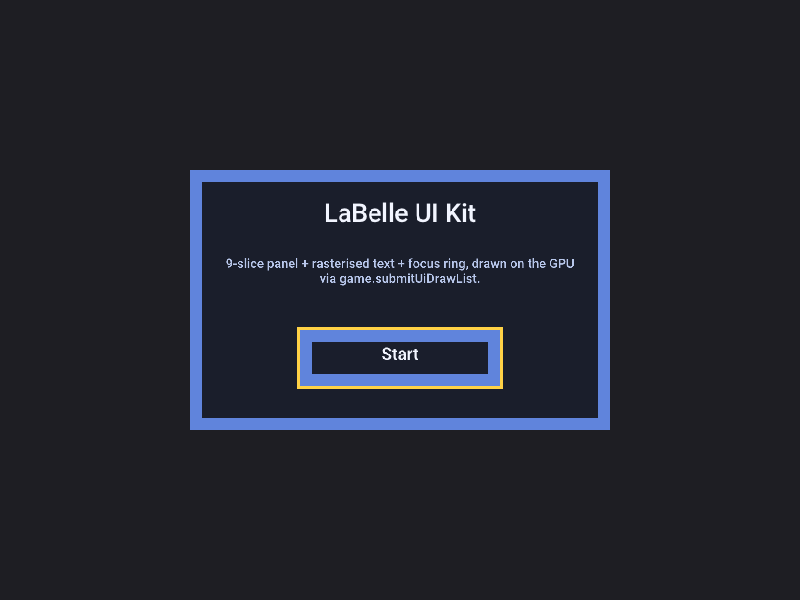
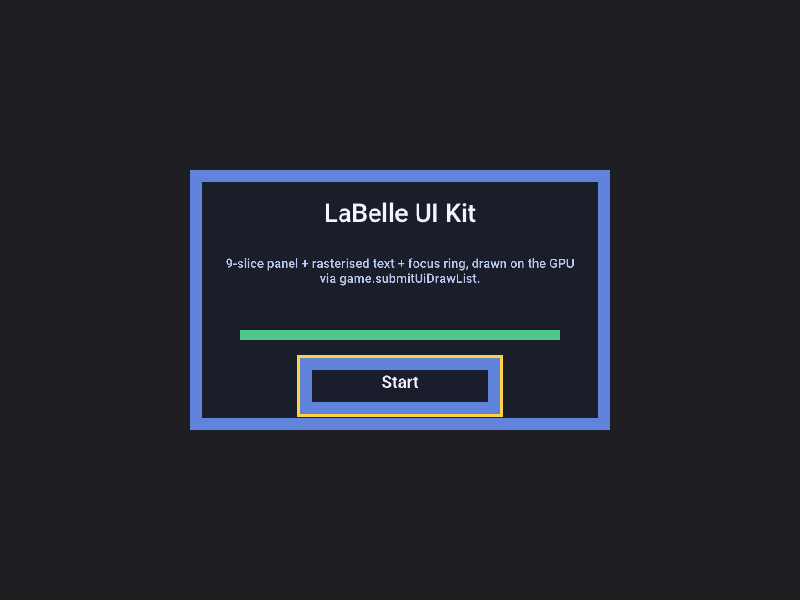
fix: guard cleanup, exercise solid_quad, ship Roboto license (#787)
Follow-on to the round-1 review fixes, addressing the codex P2s on the
same file:

- cleanup() also touched the half-initialised `tree` on an init failure
  (`tree.deinit()` on `undefined`); guard it with the `init_failed` flag
  too. `g` is created before initInner so it always deinits.
- The demo's two panels both resolved the same sprite, so `solid_quad`
  (the unresolved-sprite fallback) was never emitted despite the README
  claiming all four DrawList kinds render. Added a green swatch whose
  sprite intentionally doesn't resolve — now genuinely exercised on the
  GPU (see updated screenshot).
- The bundled Roboto TTF is Apache-2.0; ship assets/Roboto-LICENSE.txt
  (already covered by the `assets` path) + note it in the README.

Claude-Session: https://claude.ai/code/session_011szWvquoss1yNX7KWSKCaM

Changed region(s): [[0.2812, 0.54, 0.7188, 0.72]]

diff --git a/examples/uikit-gpu/README.md b/examples/uikit-gpu/README.md
@@ -10,12 +10,14 @@ submits it to the engine via **`game.submitUiDrawList`** — so the engine's
 The capture above shows all four DrawList command kinds rendered on the GPU
 (offscreen Metal), not a mock recording sink:
 
-- **`textured_quad` (9-slice)** — the panel border/interior, resolved from a
-  procedural theme atlas through `game.resolveUiFrame`.
+- **`textured_quad` (9-slice)** — the panel border/interior + the "Start"
+  button panel, resolved from a procedural theme atlas through
+  `game.resolveUiFrame`.
 - **`text_line`** — the "LaBelle UI Kit" title + the wrapped body line, real
   Roboto glyphs baked by `game.bakeUiFont` (stb_truetype behind the engine's
   `FontBackend` seam) and resolved through the kit's `FontResolver`.
-- **`solid_quad` / `textured_quad`** — the "Start" button panel.
+- **`solid_quad`** — the green swatch (a panel whose sprite intentionally does
+  not resolve, so the kit emits its solid fallback).
 - **`focus_highlight`** — the yellow focus ring around the focused button.
 
 This is the acceptance evidence the headless #771 integration test could not
@@ -66,6 +68,9 @@ depends on code that is not all released/merged yet:
 - **labelle-sokol** — the sokol backend (gfx/input/audio/window + sokol_clib).
 
 `build.zig.zon` assumes a flat sibling checkout under one parent directory.
+
+The bundled `assets/Roboto-Medium.ttf` is Google Roboto, licensed under
+Apache-2.0 — see `assets/Roboto-LICENSE.txt`.
 
 ### The gfx fix this demo surfaced
 